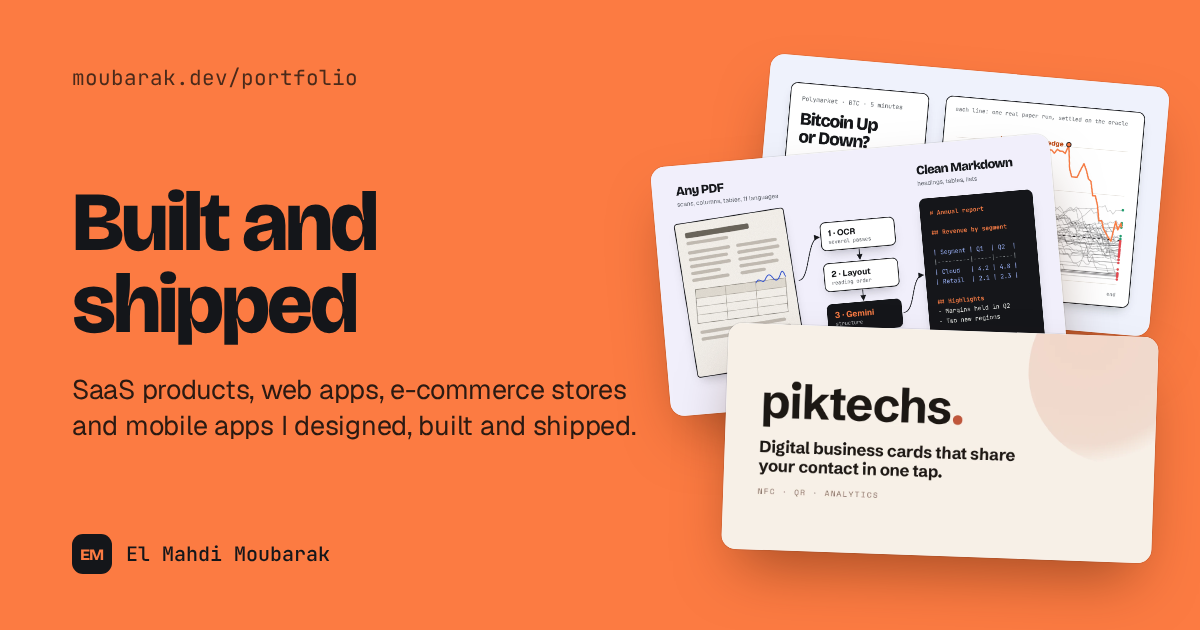
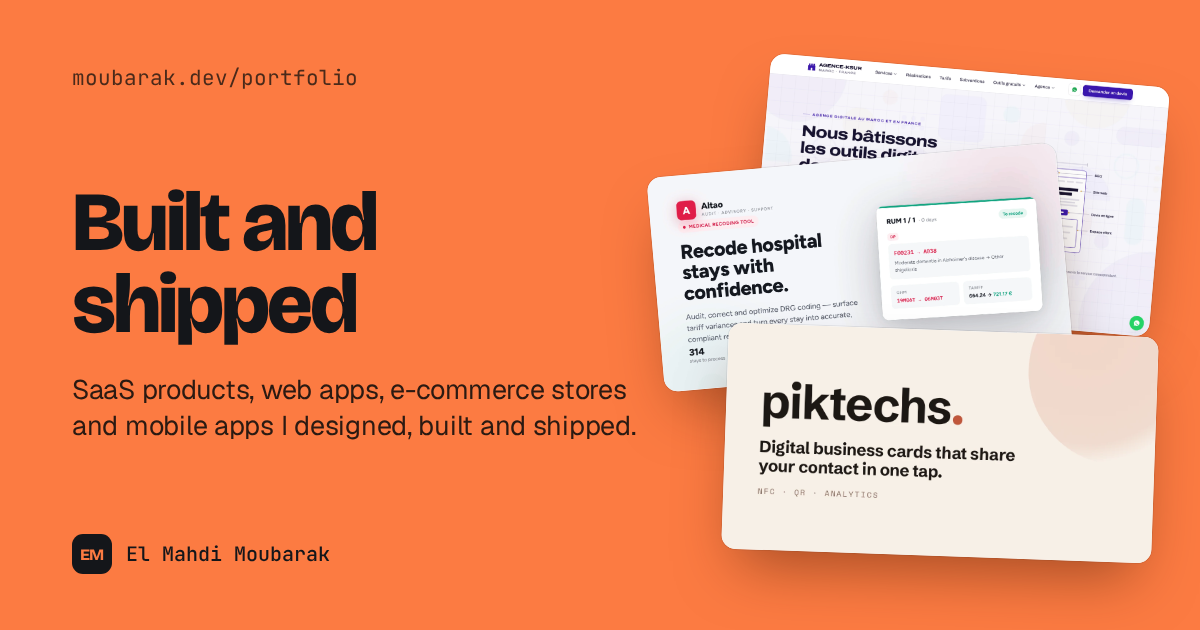
Full-height heroes on every page, a larger fan of Piktechs, KSUR and Altao
- Portfolio, Blog, CV and article heroes now fill the screen like the home one;
  on phones the artefacts sit under the text, on articles the cover peeks at the
  bottom of the first screen
- The fan is a centred stage, 12% larger, grown from the right edge
- Portfolio fan and share card show Piktechs, KSUR and Altao

diff --git a/src/styles/global.css b/src/styles/global.css
@@ -439,7 +439,7 @@
   }
   .hero__visual { position: relative; z-index: 1; }
   .hero--full { min-height: 100svh; }
-  .hero--page { min-height: clamp(30rem, 74svh, 46rem); }
+  .hero--page { min-height: 100svh; }
   .hero__actions { display: flex; flex-wrap: wrap; gap: 0.75rem; margin-top: clamp(1.75rem, 4vh, 2.5rem); }
   .hero__eyebrow { margin-bottom: clamp(1rem, 2.6vh, 1.75rem); }
   .hero__lede { margin-top: clamp(1.25rem, 3vh, 2rem); max-width: 36ch; color: var(--text-2); text-wrap: balance; }
@@ -472,6 +472,12 @@
 
   /* Page heroes: real artefacts fanned on the right (project captures, CV pages, article covers) */
   .fan { position: absolute; inset: var(--header-h) 0 0 0; pointer-events: none; }
+  /* Desktop: a fixed-height stage centred under the header, level with the text */
+  @media (min-width: 900px) {
+    .hero--page .fan { inset: auto 0; top: calc(50% + var(--header-h) / 2); height: min(32rem, calc(100% - var(--header-h) - 2rem)); transform: translateY(-50%); }
+    /* 12 % larger than its box, grown from the right edge so nothing leaves the screen */
+    .hero--page .fan { scale: 1.12; transform-origin: right center; }
+  }
   .fan__item {
     position: absolute;
     border-radius: var(--radius-sm);
@@ -487,10 +493,12 @@
     to { opacity: 1; transform: translate3d(0, 0, 0) rotate(var(--r, 0deg)); }
   }
   .fan__item { transform: rotate(var(--r, 0deg)); }
+  /* Phones: the artefacts sit under the text and fill the rest of the screen */
   @media (max-width: 899px) {
-    .hero--page .hero__visual { display: none; }
-    .hero--page { min-height: auto; }
-    .hero--page .hero__text { padding-bottom: clamp(3rem, 8vh, 4.5rem); }
+    .hero--page .hero__inner { display: flex; flex-direction: column; min-height: 100svh; }
+    .hero--page .hero__text { align-self: stretch; padding-bottom: 1.25rem; }
+    .hero--page .hero__visual { flex: 1; min-height: 17rem; margin-bottom: 2rem; }
+    .hero--page .fan { inset: 0; }
   }
 
   /* Hero load sequence: lines rise out of a mask, then the rest fades up */

diff --git a/scripts/og.py b/scripts/og.py
@@ -49,8 +49,8 @@ def cards():
         "sub": "SaaS products, web apps, e-commerce stores and mobile apps I designed, built and shipped.",
         "foot": "El Mahdi Moubarak",
         "images": [
-            {"src": f"{p}/portfolio/polymarket-illustration.webp", "w": 400, "x": 760, "y": 70, "r": 5},
-            {"src": f"{p}/portfolio/pdfold-illustration.webp", "w": 400, "x": 660, "y": 150, "r": -5},
+            {"src": f"{p}/portfolio/ksur-home.webp", "w": 400, "x": 760, "y": 70, "r": 5},
+            {"src": f"{p}/portfolio/altao-og.webp", "w": 410, "x": 655, "y": 160, "r": -5},
             {"src": f"{p}/portfolio/piktechs-og.webp", "w": 430, "x": 725, "y": 330, "r": 2},
         ],
     }
